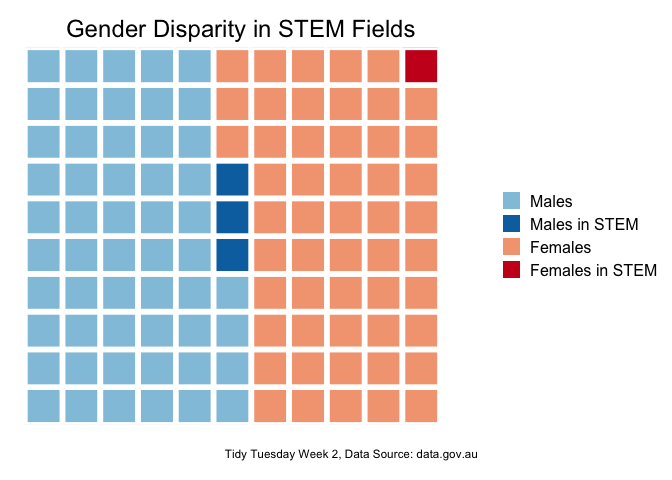
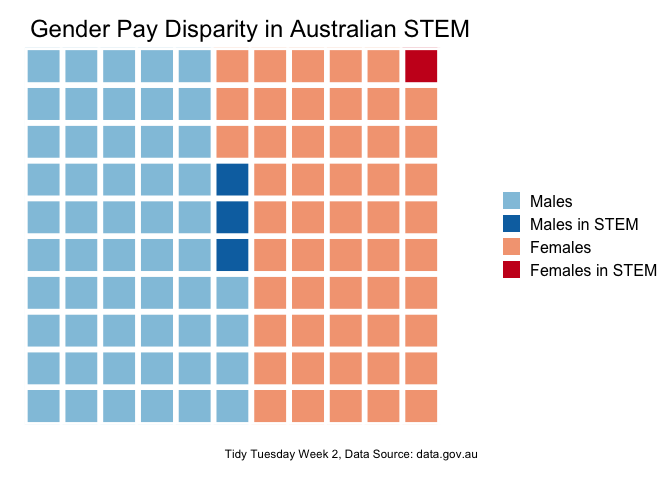
Week 4 polished

Changed region(s): [[0.0312, 0.0312, 0.7188, 0.0938]]

diff --git a/TidyWork/Week4.md b/TidyWork/Week4.md
@@ -8,39 +8,9 @@ Load data and libraries
 
 ``` r
 library(tidyverse)
-```
-
-    ## ── Attaching packages ───────────────────────────────────────────────────────────── tidyverse 1.2.1 ──
-
-    ## ✔ ggplot2 2.2.1.9000     ✔ purrr   0.2.4     
-    ## ✔ tibble  1.4.2          ✔ dplyr   0.7.4     
-    ## ✔ tidyr   0.8.0          ✔ stringr 1.3.0     
-    ## ✔ readr   1.1.1          ✔ forcats 0.3.0
-
-    ## ── Conflicts ──────────────────────────────────────────────────────────────── tidyverse_conflicts() ──
-    ## ✖ dplyr::filter() masks stats::filter()
-    ## ✖ dplyr::lag()    masks stats::lag()
-    ## ✖ dplyr::vars()   masks ggplot2::vars()
-
-``` r
 library(printr)
 
 salaries <- read_csv("../data/week4_australian_salary.csv")
-```
-
-    ## Warning: Missing column names filled in: 'X1' [1]
-
-    ## Parsed with column specification:
-    ## cols(
-    ##   X1 = col_integer(),
-    ##   gender_rank = col_integer(),
-    ##   occupation = col_character(),
-    ##   gender = col_character(),
-    ##   individuals = col_integer(),
-    ##   average_taxable_income = col_integer()
-    ## )
-
-``` r
 # looks like we are likely going to need some stringr to categorize these.
 
 # Let's look at just STEM fields broadly
@@ -58,8 +28,8 @@ df_sal <- salaries %>%
        !(str_detect(occupation, "s*ales"))), 1, 0))
 ```
 
-Let's look at gender disparity in these STEM fields
-===================================================
+Let's look at gender/pay disparity in these STEM fields
+=======================================================
 
 ``` r
 # what are those numbers actually?
@@ -87,56 +57,72 @@ gender_ratios <- c(
   STEM_ratio = STEM_gender_disparity[2, "STEMtotals"] / STEM_gender_disparity[1, "STEMtotals"],
   total_ratio = STEM_gender_disparity[2, "total"] / STEM_gender_disparity[1, "total"]
 )
-#gender_ratios
+gender_ratios
+```
 
+    ## $STEM_ratio.STEMtotals
+    ## [1] 2.595869
+    ## 
+    ## $total_ratio.total
+    ## [1] 1.09325
+
+``` r
 # what's a better way than bar charts for looking at proportions? waffle charts!
 # I want to account for STEM versus not STEM and also Male versus Female.
 
 #install.packages("waffle")
 library(waffle) 
-parts <- df_sal %>% 
+parts_gender <- df_sal %>% 
   group_by(gender, STEM) %>% 
   summarise(total = sum(individuals)) %>% pull(total)
-names(parts) <- c("Females", "Females in STEM", "Males", "Males in STEM")
-parts <- c(parts[3:4], parts[1:2]) # hacky reorder
+names(parts_gender) <- c("Females (~4.8M)", "Females in STEM (~138K)", "Males (~5M)", "Males in STEM (~359K)")
+parts_gender <- c(parts_gender[3:4], parts_gender[1:2]) # hacky reorder
 
-
-waffle(parts/91500, # resize
-       colors = c("#92c5de", "#0571b0", "#f4a582", "#ca0020")) +
-   theme(plot.title = element_text(size = 18, hjust = .4),
-         legend.text = element_text(size = 12)) +
-  labs(
-      x = "", y = "",
-      title = "Gender Disparity in STEM Fields",
-      caption = "Tidy Tuesday Week 2, Data Source: data.gov.au"
-    )
+signif(parts_gender, 3)
 ```
 
-![](Week4_files/figure-markdown_github/unnamed-chunk-2-1.png)
-
-Really makes the ratios stand out!
-
-Now for pay disparity...
-========================
+    ##             Males (~5M)   Males in STEM (~359K)         Females (~4.8M) 
+    ##                 5020000                  359000                 4780000 
+    ## Females in STEM (~138K) 
+    ##                  138000
 
 ``` r
-parts <- df_sal %>% 
+waffle(parts_gender/91500, # resize
+       colors = c("#92c5de", "#0571b0", "#f4a582", "#ca0020")) +
+   theme(plot.title = element_text(size = 18, hjust = .4),
+         legend.text = element_text(size = 12), 
+         plot.caption = element_text(hjust=0)) +
+  labs(title = "Gender Pay Disparity in Australian STEM",
+       subtitle = "Tidy Tuesday Week 4, data: data.gov.au",
+        caption = "1 box = 91500K people") -> A
+```
+
+``` r
+parts_dollars <- df_sal %>% 
   mutate(total_income = as.numeric(individuals)*as.numeric(average_taxable_income)) %>% 
   group_by(gender, STEM) %>% 
   summarise(total = sum(total_income, na.rm = T)) %>% pull(total)
-names(parts) <- c("Female $$", "Female STEM $$", "Male $$", "Male STEM $$")
-parts <- c(parts[3:4], parts[1:2]) # hacky reorder
-
-
-waffle(parts/5700000000, # resize
-       colors = c("#92c5de", "#0571b0", "#f4a582", "#ca0020")) +
-   theme(plot.title = element_text(size = 18, hjust = .4),
-         legend.text = element_text(size = 12)) +
-  labs(
-      x = "", y = "",
-      title = "Gender Pay Disparity in Australian STEM",
-      caption = "Tidy Tuesday Week 2, Data Source: data.gov.au"
-    )
+names(parts_dollars) <- c("Female $$ (~230B)", "Female STEM $$ (~10B)", "Male $$ (~363B)", "Male STEM $$ (~36B)")
+parts_dollars <- c(parts_dollars[3:4], parts_dollars[1:2]) # hacky reorder
+signif(parts_dollars, 3)
 ```
 
-![](Week4_files/figure-markdown_github/unnamed-chunk-3-1.png)
+    ##       Male $$ (~363B)   Male STEM $$ (~36B)     Female $$ (~230B) 
+    ##              3.63e+11              3.62e+10              2.30e+11 
+    ## Female STEM $$ (~10B) 
+    ##              1.01e+10
+
+``` r
+waffle(parts_dollars/5700000000, # resize
+       colors = c("#92c5de", "#0571b0", "#f4a582", "#ca0020")) +
+   theme(plot.title = element_text(size = 18, hjust = .4),
+         legend.text = element_text(size = 12), 
+         plot.caption = element_text(hjust=0)) +
+  labs(caption = "1 box = $5.7B") -> B 
+```
+
+``` r
+iron(A, B)
+```
+
+![](Week4_files/figure-markdown_github/unnamed-chunk-4-1.png)
